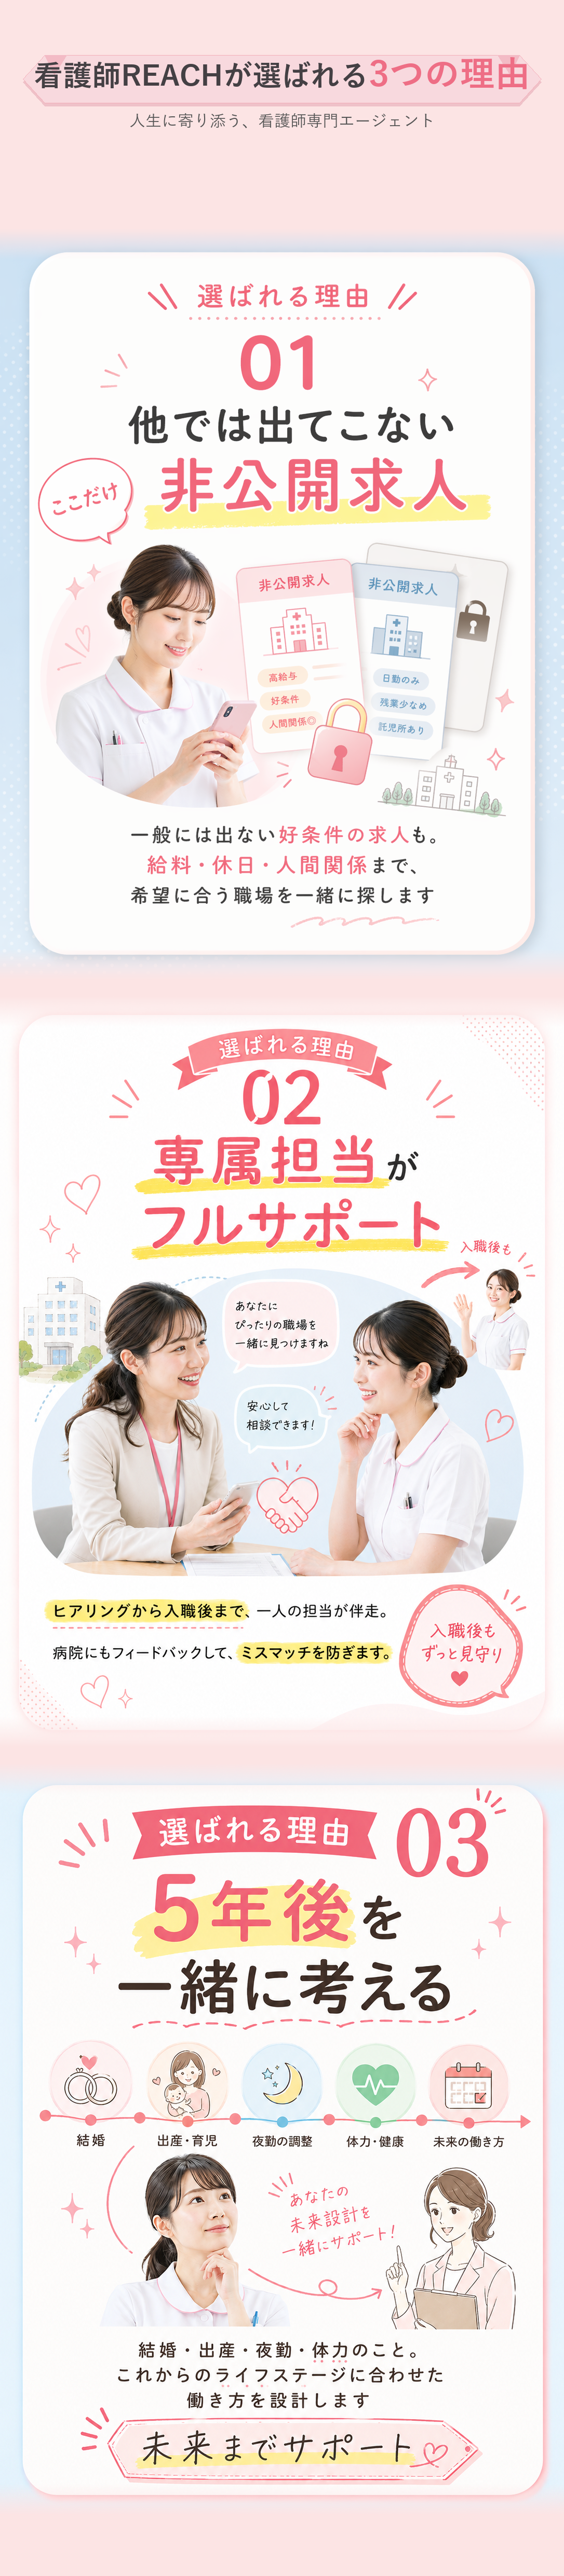
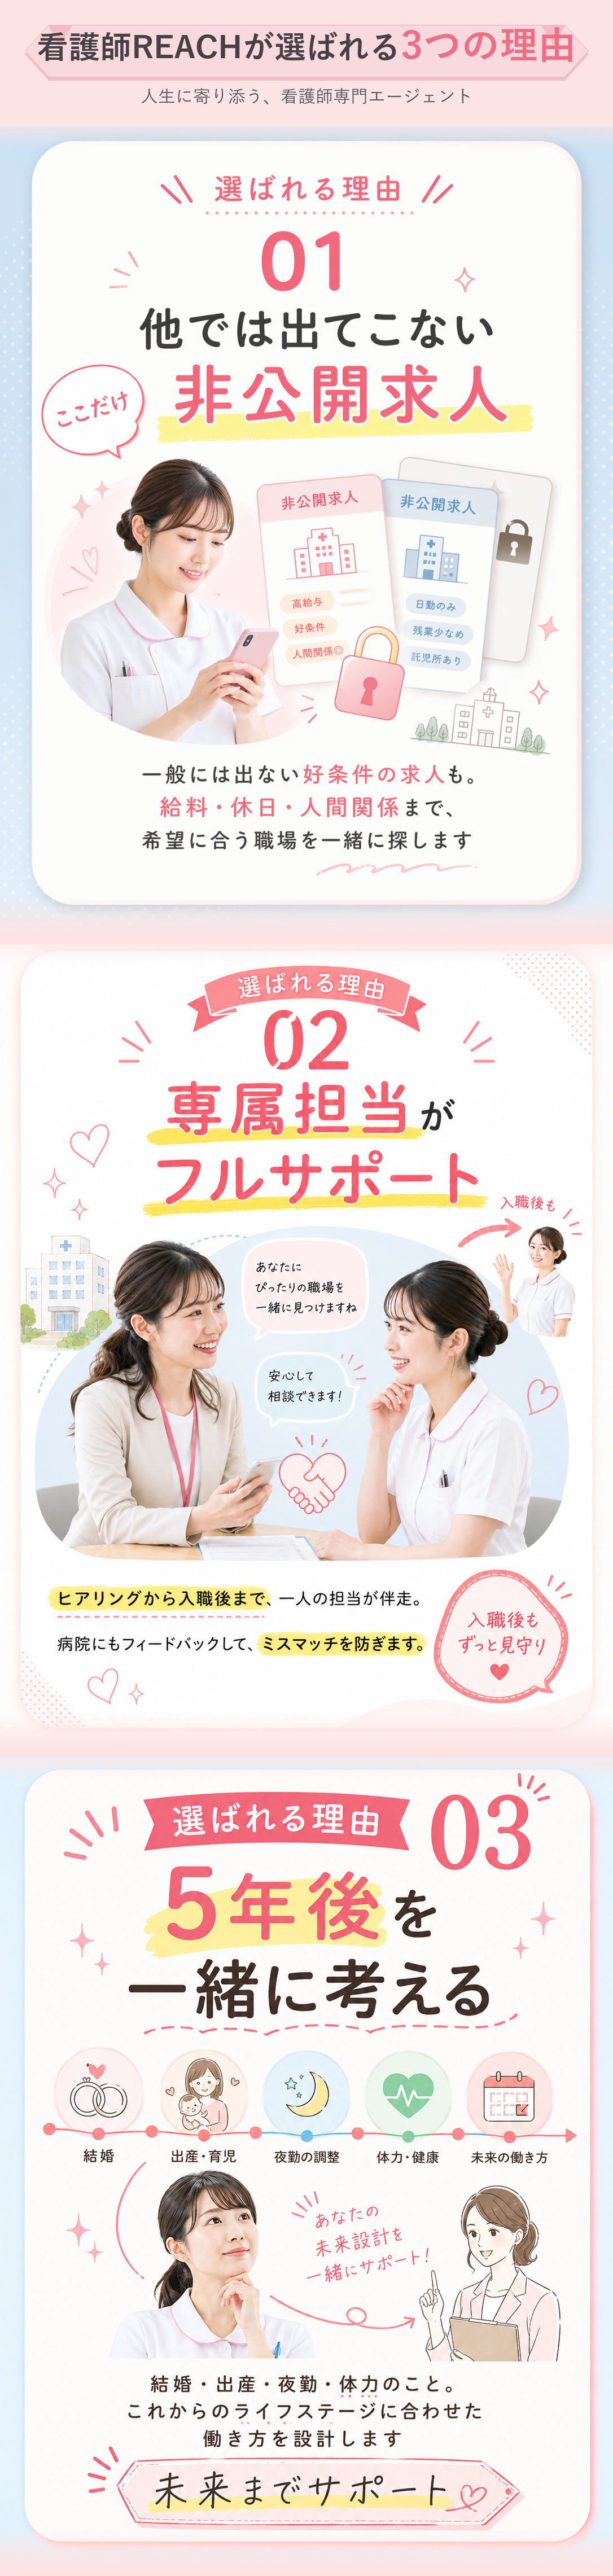
LP更新一式: 求人カード刷新・会社概要・各セクション画像・検証ループ
未push分（前セッション含む）を ryoworks4 名義で統合:
- verify.sh 静的検証ループを追加（company.html も対象に）
- FV画像を更新（SEC1_new_v8）
- クライアント要望反映: FVタグ・見出し・選ばれる理由・CTAスタンプ
- 求人カード3枚を新写真に刷新（白角丸カード＋水色の隙間の構造を保持）
- 会社概要ページ company.html を追加（実会社情報・許可番号）
- プライバシーポリシーに事業者情報を反映
- お客様の声/選ばれる理由/おまかせ/プロ紹介リボンを更新
- プロ紹介リボン背景の貼付け継ぎ目をなじませ
- 旧版・中間生成画像を整理

diff --git a/company.html b/company.html
@@ -1,0 +1,135 @@
+<!DOCTYPE html>
+<html lang="ja">
+<head>
+  <meta charset="UTF-8">
+  <meta name="viewport" content="width=device-width, initial-scale=1.0">
+  <title>会社概要｜看護師REACH</title>
+  <meta name="description" content="看護師REACHの運営会社情報（会社概要）。">
+  <meta name="robots" content="noindex">
+  <style>
+    :root {
+      --coral: #ee6e85;
+      --cream: #faf9f5;
+      --text: #333333;
+    }
+
+    * { box-sizing: border-box; }
+
+    body {
+      margin: 0;
+      color: var(--text);
+      font-family: "Hiragino Kaku Gothic ProN", "Yu Gothic", "Meiryo", sans-serif;
+      background: var(--cream);
+      line-height: 1.8;
+      -webkit-font-smoothing: antialiased;
+    }
+
+    .container {
+      max-width: 720px;
+      margin: 0 auto;
+      padding: 40px 24px 80px;
+      background: #ffffff;
+      min-height: 100vh;
+      box-shadow: 0 0 24px rgba(0, 0, 0, 0.04);
+    }
+
+    h1 {
+      font-size: 24px;
+      margin: 0 0 8px;
+      border-bottom: 3px solid var(--coral);
+      padding-bottom: 8px;
+    }
+
+    .updated {
+      font-size: 12px;
+      color: #888888;
+      margin: 0 0 32px;
+    }
+
+    .lead {
+      background: #fef4f5;
+      border-left: 4px solid var(--coral);
+      padding: 14px 16px;
+      font-size: 14px;
+      margin: 0 0 24px;
+    }
+
+    .editor-note {
+      background: #fffbe6;
+      border: 1px dashed #c99319;
+      padding: 12px 14px;
+      font-size: 13px;
+      margin: 24px 0;
+      color: #6a4f00;
+    }
+
+    .placeholder {
+      background: #fffbe6;
+      padding: 0 4px;
+      border-radius: 2px;
+    }
+
+    .info-table {
+      width: 100%;
+      border-collapse: collapse;
+      margin: 8px 0 16px;
+      font-size: 14px;
+    }
+
+    .info-table th,
+    .info-table td {
+      text-align: left;
+      padding: 10px 10px;
+      border-bottom: 1px solid #eeeeee;
+      vertical-align: top;
+    }
+
+    .info-table th {
+      width: 34%;
+      color: #555555;
+      font-weight: 700;
+      background: #fafafa;
+    }
+
+    .links {
+      margin-top: 40px;
+      font-size: 14px;
+    }
+
+    .links a {
+      color: var(--coral);
+      text-decoration: underline;
+      margin-right: 16px;
+    }
+  </style>
+</head>
+<body>
+  <main class="container">
+    <h1>会社概要</h1>
+    <p class="updated">最終更新日：2026年6月24日</p>
+
+    <p class="lead">
+      看護師REACHは、看護師をはじめとする医療従事者のキャリア支援・人材紹介サービスを運営しています。
+    </p>
+
+    <table class="info-table">
+      <tr><th>会社名</th><td>株式会社クローバーハート</td></tr>
+      <tr><th>代表者</th><td>加藤 修</td></tr>
+      <tr><th>所在地</th><td>千葉県千葉市中央区中央4丁目14番1号2階B号室</td></tr>
+      <tr><th>設立</th><td>2024年5月</td></tr>
+      <tr><th>資本金</th><td>700万円</td></tr>
+      <tr><th>事業内容</th><td>看護師特化のキャリアサポート、医療法人へのコンサルティング、看護師の国家資格サポート塾</td></tr>
+      <tr><th>有料職業紹介事業許可番号</th><td>厚生労働大臣許可 12-ユ-301342</td></tr>
+      <tr><th>電話番号</th><td><a href="tel:09056841688">090-5684-1688</a></td></tr>
+      <tr><th>メール</th><td>公式サイトに記載（下記ホームページをご確認ください）</td></tr>
+      <tr><th>受付時間</th><td>9:00〜23:00</td></tr>
+      <tr><th>ホームページ</th><td><a href="https://www.cloverheart.co.jp" target="_blank" rel="noopener">https://www.cloverheart.co.jp</a></td></tr>
+    </table>
+
+    <div class="links">
+      <a href="privacy.html">プライバシーポリシー</a>
+      <a href="index.html">← トップに戻る</a>
+    </div>
+  </main>
+</body>
+</html>

diff --git a/index.html b/index.html
@@ -434,7 +434,7 @@
     .pros-section {
       padding: 130px 14px 50px;
       margin: 0;
-      background-image: url("画像v2/05-pros-bg-v2.png");
+      background-image: url("画像v2/05-pros-bg-v4.png");
       background-repeat: no-repeat;
       background-position: top center;
       background-size: 100% auto;
@@ -685,6 +685,11 @@
       text-decoration: underline;
     }
 
+    .site-footer__nav-sep {
+      color: #cccccc;
+      margin: 0 8px;
+    }
+
     .site-footer__copy {
       margin: 0;
       color: #888888;
@@ -864,9 +869,9 @@
   <div class="page">
     <main class="lp-frame" aria-label="看護師REACHのランディングページ">
       <section class="hero-section" aria-label="ファーストビュー">
-        <img class="section-image" src="画像v2/SEC1_new_v2.png" alt="看護師REACH ファーストビュー">
+        <img class="section-image" src="画像v2/SEC1_new_v8.png" alt="看護師REACH ファーストビュー">
         <div class="hero-cta">
-          <span class="cta-stamp" aria-hidden="true"><small>完全</small><strong>無料</strong></span>
+          <span class="cta-stamp" aria-hidden="true"><small>キャリア</small><strong>相談</strong></span>
           <a class="line-button" href="https://line.me/R/ti/p/@023mgjip" target="_blank" rel="noopener">
             <span class="line-button__copy">
               <span class="line-button__sub">30秒でかんたん相談</span>
@@ -878,19 +883,19 @@
       </section>
 
       <section aria-label="お客様の声">
-        <img class="section-image" src="画像v2/声-枠組み統合.png" alt="看護師REACH お客様の声 A.S様・M.K様・K.Y様">
+        <img class="section-image" src="画像v2/声-統合-v2.png" alt="看護師REACH お客様の声 K.Y様・M.K様・A.S様">
       </section>
 
       <section aria-label="看護師リーチが選ばれる理由">
-        <img class="section-image" src="画像v2/選ばれる理由-枠組み統合.png" alt="看護師REACHが選ばれる3つの理由：非公開求人 / 専属担当がフルサポート / 5年後を一緒に考える">
+        <img class="section-image" src="画像v2/選ばれる理由-統合-v2.png" alt="看護師REACHが選ばれる3つの理由：非公開求人 / 専属担当がフルサポート / 5年後を一緒に考える">
       </section>
 
       <section aria-label="お悩みセクション">
         <img class="section-image" src="看護師リーチ最新/13-worries.png" alt="ひとりで抱えてませんか">
       </section>
 
-      <section class="pros-section" aria-label="厳しい審査をクリアしたプロが所属">
-        <h2 class="sr-only">厳しい審査をクリアしたプロが所属</h2>
+      <section class="pros-section" aria-label="厳しい審査をクリアした看護師認定のプロキャリアアドバイザー">
+        <h2 class="sr-only">厳しい審査をクリアした看護師認定のプロキャリアアドバイザー</h2>
         <div class="pros-scroller" role="list">
           <article class="pros-card" role="listitem">
             <img class="pros-card__photo" src="画像v2/pro-1-suzuki.png" alt="鈴木様 元看護師 エージェント歴6年" loading="lazy" onerror="this.classList.add('pros-card__photo--missing');this.setAttribute('data-placeholder','PRO 1');">
@@ -901,7 +906,7 @@
             </dl>
           </article>
           <article class="pros-card" role="listitem">
-            <img class="pros-card__photo" src="画像v2/pro-2-tanifuji.png" alt="谷藤様 大手人材紹介会社 エージェント歴5年" loading="lazy" onerror="this.classList.add('pros-card__photo--missing');this.setAttribute('data-placeholder','PRO 2');">
+            <img class="pros-card__photo" src="画像v2/pro-3-kato.png" alt="谷藤様 大手人材紹介会社 エージェント歴5年" loading="lazy" onerror="this.classList.add('pros-card__photo--missing');this.setAttribute('data-placeholder','PRO 2');">
             <p class="pros-card__name"><strong>谷藤</strong>様</p>
             <dl class="pros-card__meta">
               <div><dt>経歴</dt><dd>大手人材紹介会社</dd></div>
@@ -909,7 +914,7 @@
             </dl>
           </article>
           <article class="pros-card" role="listitem">
-            <img class="pros-card__photo" src="画像v2/pro-3-kato.png" alt="加藤様 会社経営5年" loading="lazy" onerror="this.classList.add('pros-card__photo--missing');this.setAttribute('data-placeholder','PRO 3');">
+            <img class="pros-card__photo" src="画像v2/pro-2-tanifuji.png" alt="加藤様 会社経営5年" loading="lazy" onerror="this.classList.add('pros-card__photo--missing');this.setAttribute('data-placeholder','PRO 3');">
             <p class="pros-card__name"><strong>加藤</strong>様</p>
             <dl class="pros-card__meta">
               <div><dt>経歴</dt><dd>会社経営</dd></div>
@@ -921,11 +926,11 @@
       </section>
 
       <section aria-label="限定求人情報">
-        <img class="section-image" src="看護師リーチ最新/10-2-jobs-showcase.png" alt="看護師REACH 限定求人情報">
+        <img class="section-image" src="画像v2/限定求人-v3.png" alt="看護師REACH 限定求人情報">
       </section>
 
       <section class="support-section" aria-label="おまかせセクション">
-        <img class="section-image" src="看護師リーチ最新/14-line-button-removed.png" alt="看護師REACHにお任せください">
+        <img class="section-image" src="画像v2/おまかせ-v3.png" alt="看護師REACHにお任せください">
         <div class="support-cta">
           <a class="line-button" href="https://line.me/R/ti/p/@023mgjip" target="_blank" rel="noopener">
             <span class="line-button__copy">
@@ -993,6 +998,8 @@
       <footer class="site-footer" aria-label="フッター">
         <div class="site-footer__logo">看護師REACH</div>
         <nav class="site-footer__nav" aria-label="サイトナビゲーション">
+          <a href="company.html">会社概要</a>
+          <span class="site-footer__nav-sep" aria-hidden="true">｜</span>
           <a href="privacy.html">プライバシーポリシー</a>
         </nav>
         <p class="site-footer__copy">© 2026 看護師REACH All Rights Reserved.</p>

diff --git a/privacy.html b/privacy.html
@@ -130,12 +130,7 @@
 <body>
   <main class="container">
     <h1>プライバシーポリシー</h1>
-    <p class="updated">最終更新日：2026年6月8日</p>
-
-    <p class="editor-note">
-      ※ <strong>本ページは雛形です。</strong>
-      クライアントの確定情報（事業者名・連絡先・有料職業紹介事業許可番号・利用ツール・委託先等）に差し替えのうえ、本番公開前に法務確認をおすすめします。<span class="placeholder">※要確認</span> と記載した箇所が差し替え対象です。
-    </p>
+    <p class="updated">最終更新日：2026年6月24日</p>
 
     <p class="lead">
       看護師REACH（以下「当サービス」）は、ご利用者様の個人情報を適切に保護することが社会的責務であると考え、個人情報保護法、職業安定法その他関連法令を遵守し、本プライバシーポリシーに基づいて個人情報を取り扱います。
@@ -143,11 +138,11 @@
 
     <h2>1. 事業者情報</h2>
     <table class="info-table">
-      <tr><th>事業者名</th><td><span class="placeholder">※運営会社名（要確認）</span></td></tr>
-      <tr><th>代表者</th><td><span class="placeholder">※代表者名（要確認）</span></td></tr>
-      <tr><th>所在地</th><td><span class="placeholder">※所在地（要確認）</span></td></tr>
-      <tr><th>有料職業紹介事業許可番号</th><td><span class="placeholder">※許可番号（要確認）</span></td></tr>
-      <tr><th>個人情報保護管理者</th><td><span class="placeholder">※管理者の役職・氏名（要確認）</span></td></tr>
+      <tr><th>事業者名</th><td>株式会社クローバーハート</td></tr>
+      <tr><th>代表者</th><td>加藤 修</td></tr>
+      <tr><th>所在地</th><td>千葉県千葉市中央区中央4丁目14番1号2階B号室</td></tr>
+      <tr><th>有料職業紹介事業許可番号</th><td>厚生労働大臣許可 12-ユ-301342</td></tr>
+      <tr><th>個人情報保護管理者</th><td>代表取締役 加藤 修</td></tr>
     </table>
 
     <h2>2. 取得する情報</h2>
@@ -197,7 +192,7 @@
       利用目的の達成に必要な範囲で、業務の一部を外部委託する場合があります（クラウドサービス、メール配信、アクセス解析、データ保管等）。委託先には、契約により適切な管理を義務づけ、必要かつ適切な監督を行います。
     </p>
     <p>
-      主な委託先・利用サービスの種類：<span class="placeholder">※利用サービス（要確認：例 LINE / Google Workspace / 各種CRM 等）</span>
+      主な委託先・利用サービスの種類：LINE（お問い合わせ・ご相談対応）、ホスティングサービス 等
     </p>
 
     <h2>6. 安全管理措置</h2>
@@ -225,7 +220,7 @@
       当サービスでは、利用状況の把握およびサービス改善のため、Cookie および類似技術、アクセス解析ツールを使用することがあります。
     </p>
     <p>
-      利用ツール：<span class="placeholder">※利用ツール（要確認：例 Google Analytics 4 等）</span>
+      利用ツール：現在、アクセス解析ツールは使用していません（導入時は本ポリシーを更新します）。
     </p>
     <p>
       これらのツールは Cookie を利用しますが、個人を特定する情報は含まれません。ブラウザの設定で Cookie を無効化することも可能です（ただしサービスの一部機能が利用できなくなる場合があります）。
@@ -249,9 +244,9 @@
     <h2>12. お問い合わせ窓口</h2>
     <table class="info-table">
       <tr><th>窓口名</th><td>個人情報お問い合わせ窓口</td></tr>
-      <tr><th>メール</th><td><span class="placeholder">※メールアドレス（要確認）</span></td></tr>
-      <tr><th>電話</th><td><span class="placeholder">※電話番号（要確認）</span></td></tr>
-      <tr><th>受付時間</th><td><span class="placeholder">※受付時間（要確認：例 平日 10:00〜18:00）</span></td></tr>
+      <tr><th>メール</th><td>公式サイト（<a href="https://www.cloverheart.co.jp" target="_blank" rel="noopener">https://www.cloverheart.co.jp</a>）に記載</td></tr>
+      <tr><th>電話</th><td><a href="tel:09056841688">090-5684-1688</a></td></tr>
+      <tr><th>受付時間</th><td>9:00〜23:00</td></tr>
     </table>
 
     <a class="back" href="index.html">← トップに戻る</a>